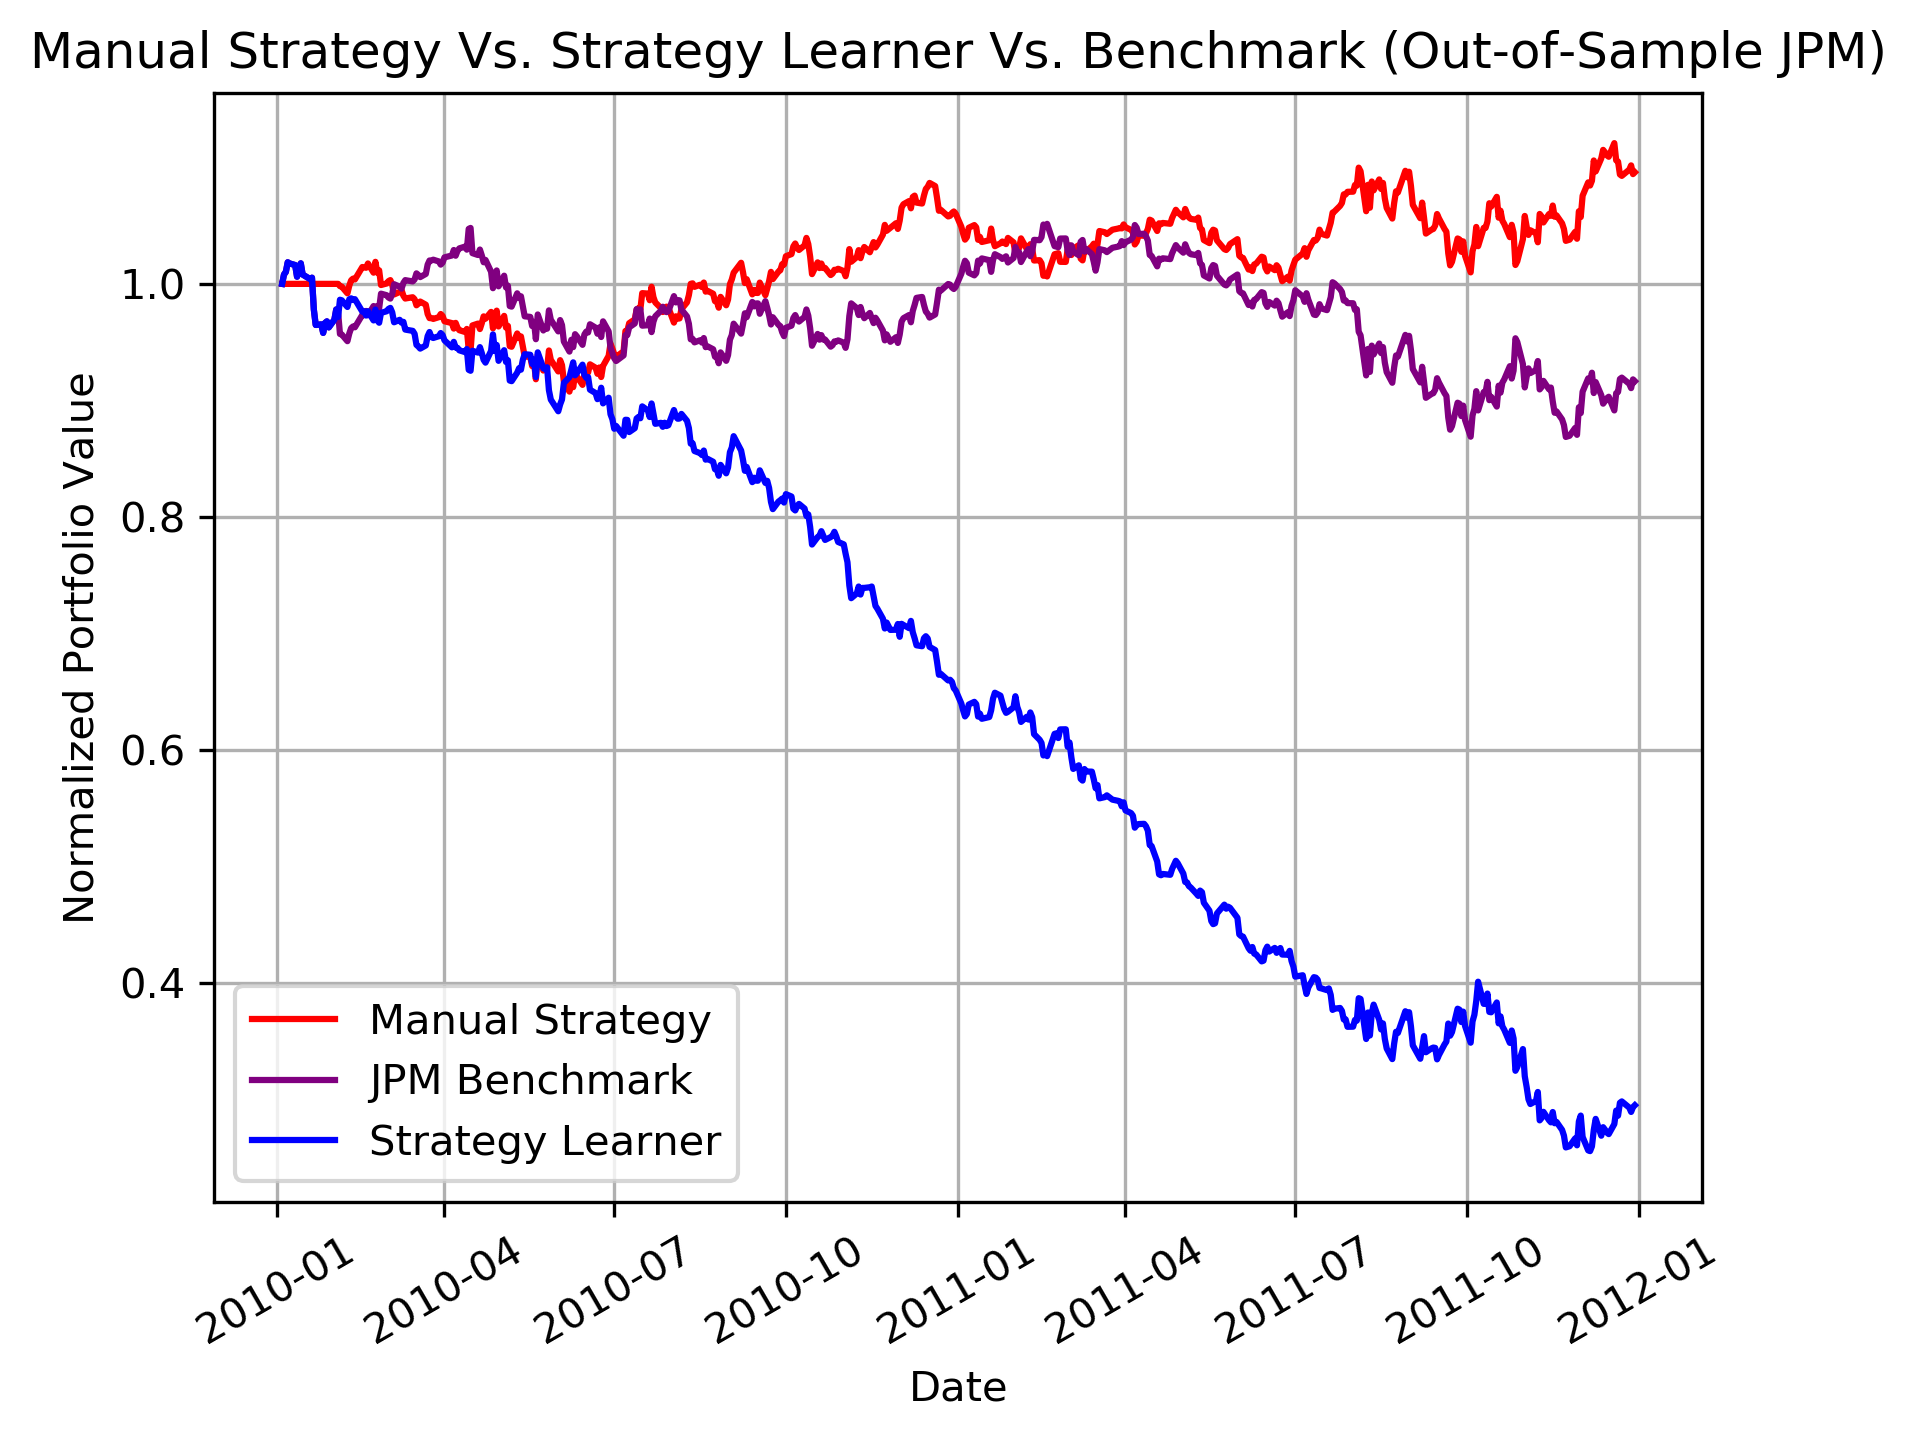
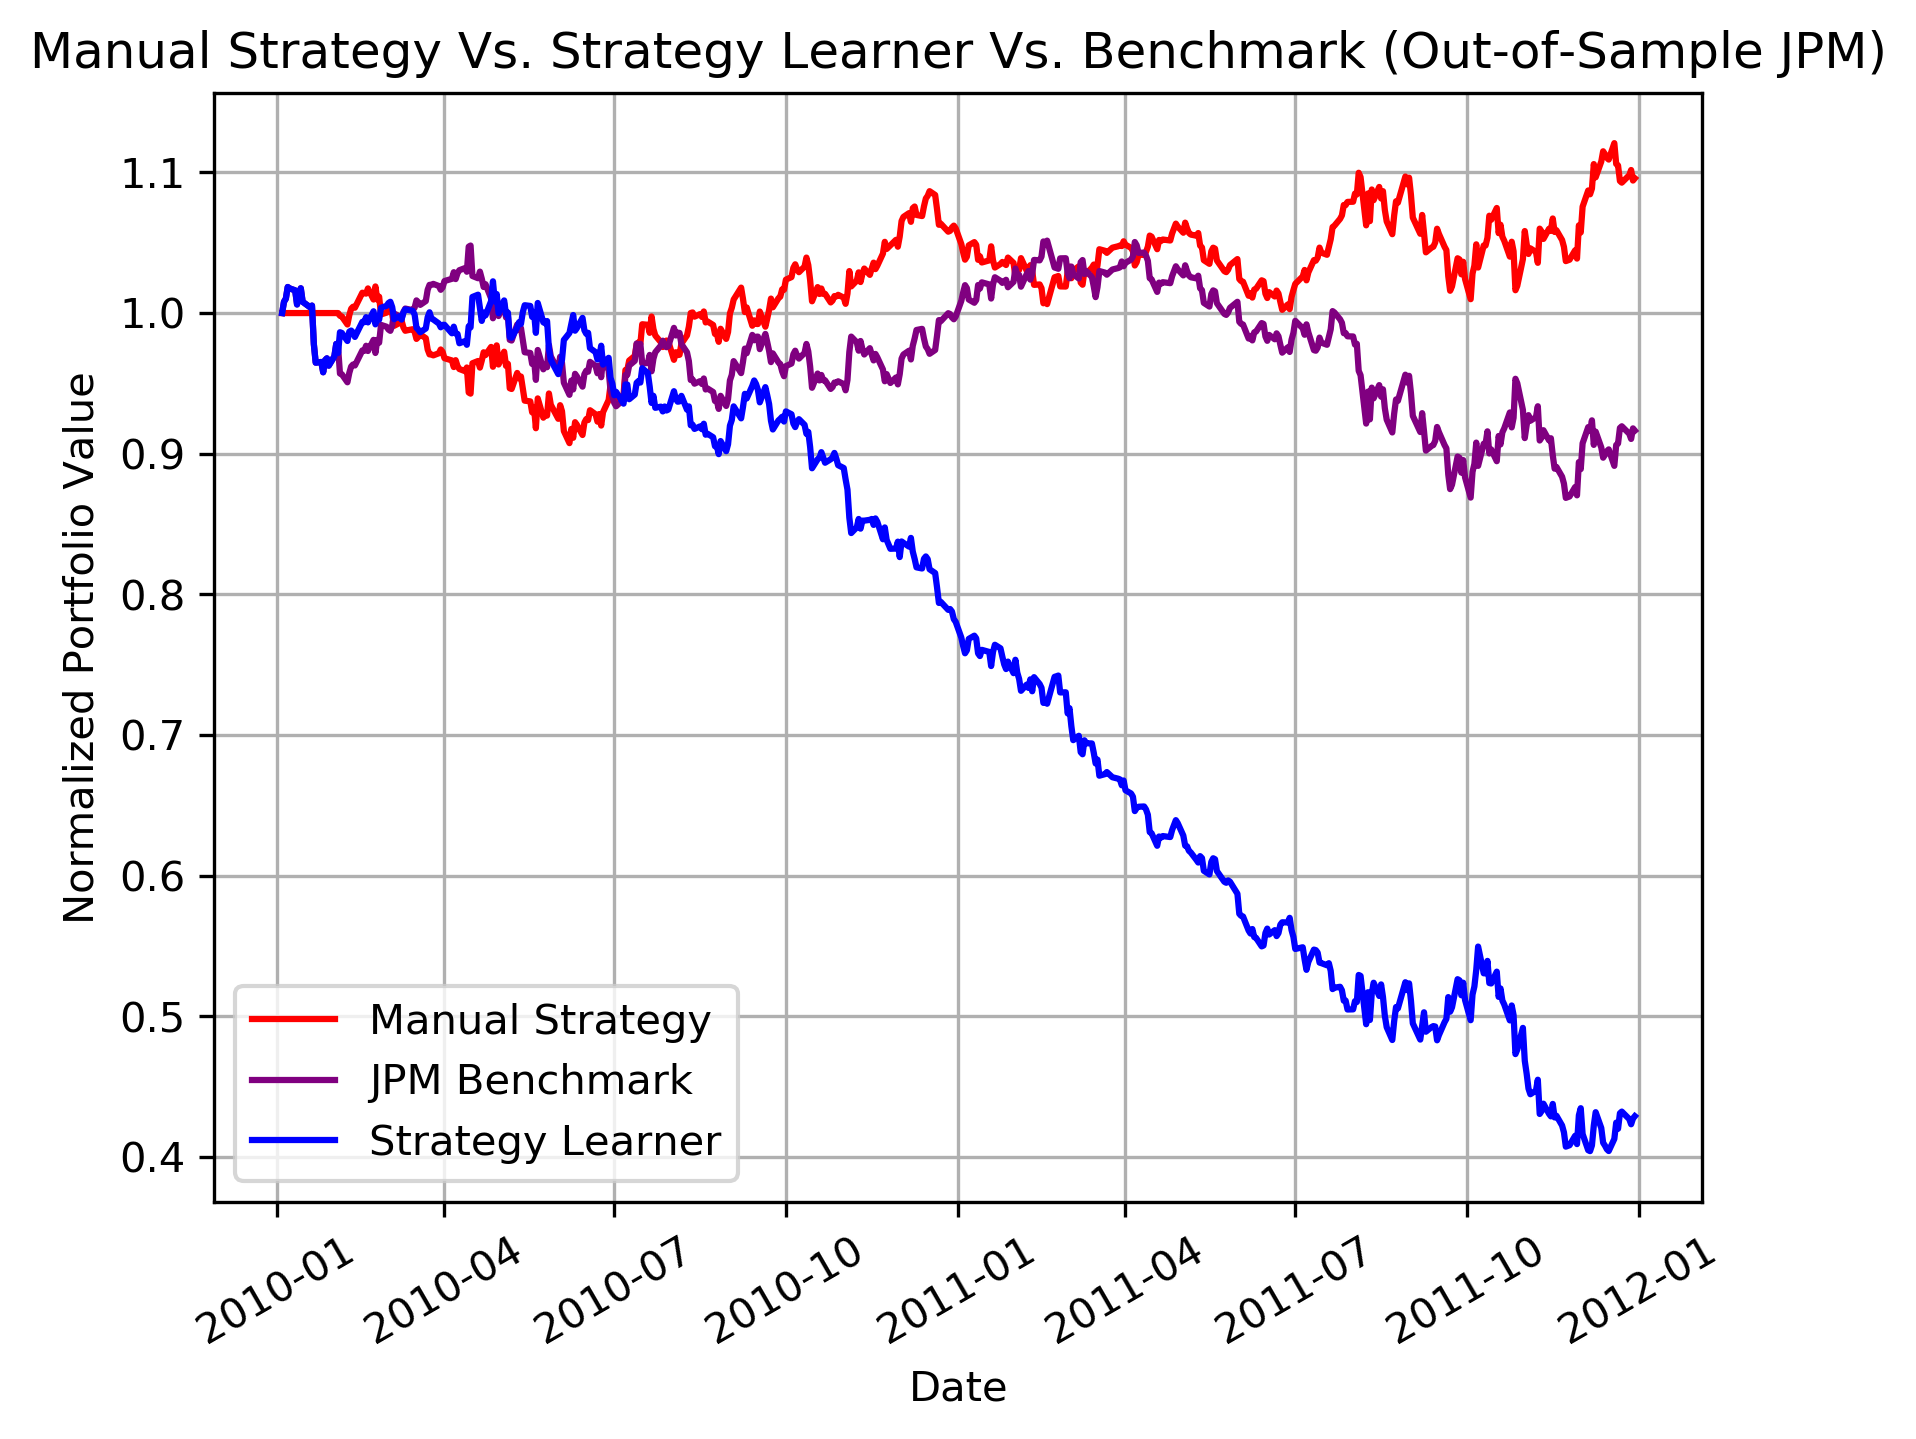
experiment1.py clean-up part 2

diff --git a/strategy_evaluation/experiment1.py b/strategy_evaluation/experiment1.py
@@ -33,27 +33,33 @@ def test_code():
 
     # Train Strategy Learner on In-Sample Data
     sl.add_evidence(symbol='JPM', sd=dt.datetime(2008, 1, 1), ed=dt.datetime(2009, 12, 31), sv = 100000)
-    df_in_trades = sl.testPolicy(symbol='JPM', sd=dt.datetime(2008, 1, 1), ed=dt.datetime(2009, 12, 31), sv=100000)
-    df_out_trades = sl.testPolicy(symbol='JPM', sd=dt.datetime(2010, 1, 1), ed=dt.datetime(2011, 12, 31), sv = 100000)
+    # Query Strategy Learner on In-Sample Data
+    in_sample_trades = sl.testPolicy(symbol='JPM', sd=dt.datetime(2008, 1, 1), ed=dt.datetime(2009, 12, 31), sv=100000)
+    # Query Strategy Learner on Out-Sample Data
+    out_sample_trades = sl.testPolicy(symbol='JPM', sd=dt.datetime(2010, 1, 1), ed=dt.datetime(2011, 12, 31), sv = 100000)
 
     """
     In-Sample
     """
+    # Query Manual Strategy on In-Sample Data
     df_trades, _, _ = ms.testPolicy(symbol="JPM", sd=dt.datetime(2008, 1, 1), ed=dt.datetime(2009, 12, 31),sv=100000)
     benchmark = get_benchmark(sd=dt.datetime(2008, 1, 1), ed=dt.datetime(2009, 12, 31),sv=100000)
-    in_sample = mktsim.compute_portvals(df_in_trades, start_val=100000, commission=9.95, impact=0.005)
+    in_sample_portval = mktsim.compute_portvals(in_sample_trades, start_val=100000, commission=9.95, impact=0.005)
+    # Portfolio Value for Manual Strategy trades
     portvals = mktsim.compute_portvals(df_trades, start_val=100000, commission=9.95, impact=0.005)
-    plotting_utility_function(benchmark, portvals, in_sample, "Manual Strategy Vs. Strategy Learner Vs. Benchmark (In-Sample JPM)", "Date",
+    plotting_utility_function(benchmark, portvals, in_sample_portval, "Manual Strategy Vs. Strategy Learner Vs. Benchmark (In-Sample JPM)", "Date",
                               "Normalized Portfolio Value", "images/Exp1_In_Sample.png")
 
     """
     Out-Sample
     """
+    # Query Manual Strategy on Out-Sample Data
     df_trades, _, _ = ms.testPolicy(symbol="JPM", sd=dt.datetime(2010, 1, 1), ed=dt.datetime(2011, 12, 31), sv=100000)
     benchmark = get_benchmark(sd=dt.datetime(2010, 1, 1), ed=dt.datetime(2011, 12, 31), sv=100000)
-    out_sample = mktsim.compute_portvals(df_out_trades, start_val=100000, commission=9.95, impact=0.005)
-    portvals = mktsim.compute_portvals(df_trades, start_val=100000)
-    plotting_utility_function(benchmark, portvals, out_sample, "Manual Strategy Vs. Strategy Learner Vs. Benchmark (Out-of-Sample JPM)", "Date",
+    out_sample_portval = mktsim.compute_portvals(out_sample_trades, start_val=100000, commission=9.95, impact=0.005)
+    # Portfolio Value for Manual Strategy trades
+    portvals = mktsim.compute_portvals(df_trades, start_val=100000, commission=9.95, impact=0.005)
+    plotting_utility_function(benchmark, portvals, out_sample_portval, "Manual Strategy Vs. Strategy Learner Vs. Benchmark (Out-of-Sample JPM)", "Date",
                               "Normalized Portfolio Value", "images/Exp1_Out_Sample.png")
 
 """
